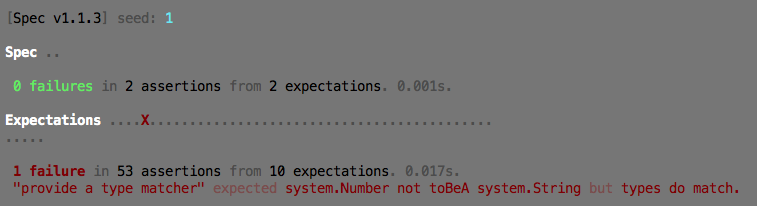
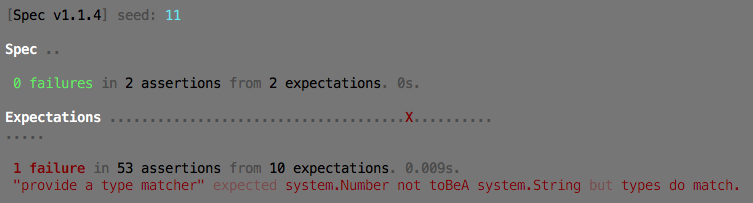
prepare 1.1.4 release

diff --git a/README.md b/README.md
@@ -10,12 +10,12 @@ a simple specification framework for Loom
 
 Download the library into its matching sdk folder:
 
-    $ curl -L -o ~/.loom/sdks/sprint33/libs/Spec.loomlib \
-        https://github.com/pixeldroid/spec-ls/releases/download/v1.1.3/Spec-sprint33.loomlib
+    $ curl -L -o ~/.loom/sdks/1.1.4794/libs/Spec.loomlib \
+        https://github.com/pixeldroid/spec-ls/releases/download/v1.1.4/Spec-1.1.4794.loomlib
 
 To uninstall, simply delete the file:
 
-    $ rm ~/.loom/sdks/sprint33/libs/Spec.loomlib
+    $ rm ~/.loom/sdks/1.1.4794/libs/Spec.loomlib
 
 
 ## usage
